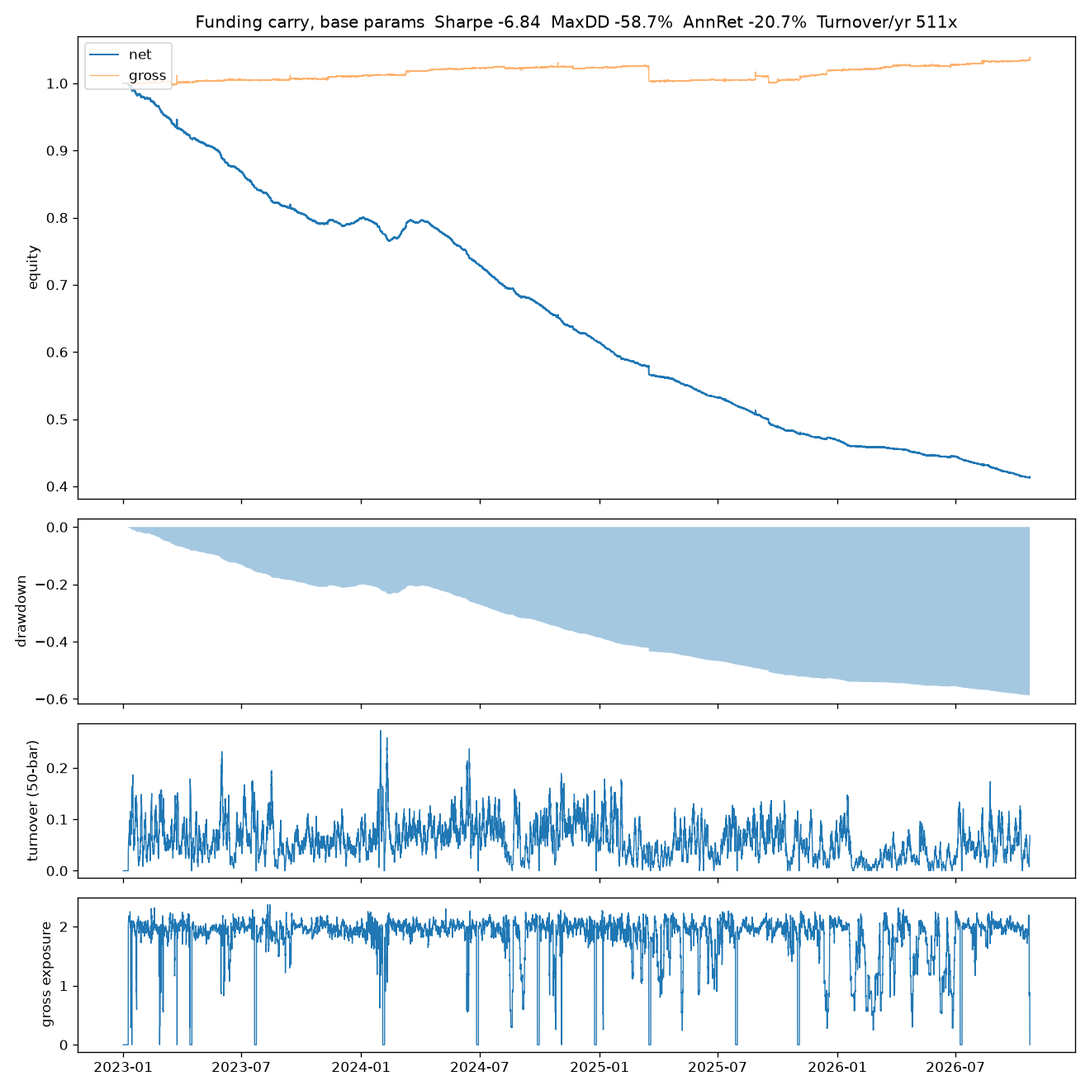
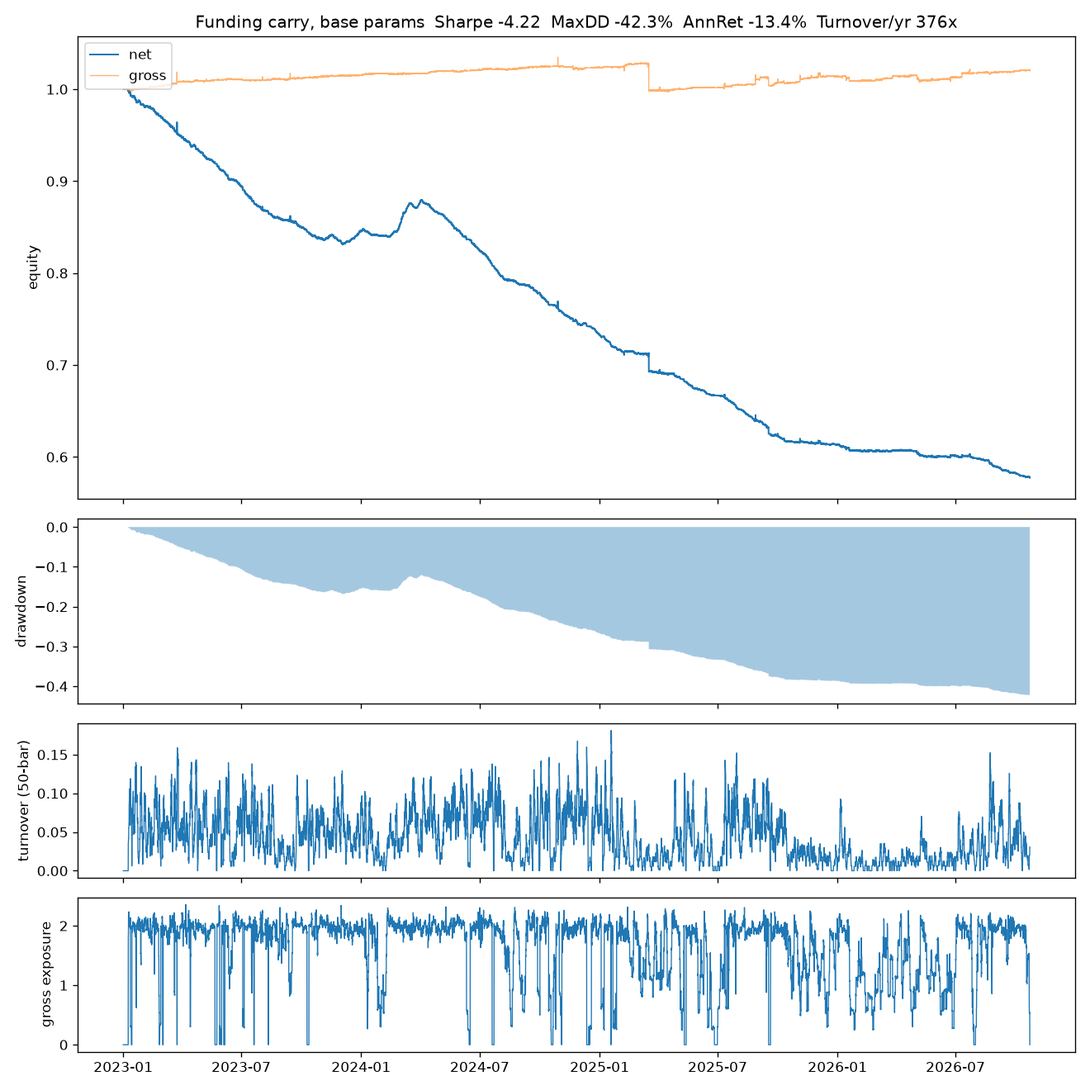
Fix funding timestamp jitter in run_carry; correct the rotation results
run_carry.load read raw fundingTime, which carries millisecond jitter
(08:00:00.008). With 8h windows closed on the right, about a third of
settlements landed in the following window, misaligning the rotation
signal and inflating its turnover. Timestamps are now rounded to the
minute, as load_funding already did, and per_window rounds them itself
(with a regression test).

Rerun: hedged rotation -20.7% -> -13.4%/yr, turnover 511x -> 376x,
6/25 grid cells now positive (best Sharpe 0.49, 19% after deflating
for 25 trials), walk-forward -3.1% -> -0.1%/yr; unhedged -0.03% ->
+23.3%/yr. Studies 1-3 used rounded timestamps and are unchanged.

run_carry also reports the unhedged P&L split by year and a 2x2 control
(signal vs no-signal short, with and without the 8% stop), which shows
the unhedged return comes from the stop: -34.3%/yr without it. The note
carries a dated correction line.

diff --git a/scripts/run_carry.py b/scripts/run_carry.py
@@ -20,7 +20,9 @@ from qr.backtest.engine import run
 from qr.backtest.report import tearsheet
 from qr.data.history import delisting_times
 from qr.data.store import read_range
-from qr.strategies.carry import CarryParams, build_weights, implied_leverage, run_with_risk
+from qr.data.funding import per_window
+from qr.strategies.carry import (CarryParams, build_weights, implied_leverage, point_in_time_universe,
+                                 run_with_risk)
 from qr.validation import deflated_sharpe
 
 OUT = Path("reports/carry")
@@ -44,7 +46,9 @@ def load(bases: list[str], start: str, end: str):
         closes[f"{b}-PERP"] = kp["close"]
         if not ks.empty:                       # perp-only coins stay in: tradeable unhedged, never hedged
             closes[f"{b}-SPOT"] = ks["close"]
-        fund[b] = f["rate"]
+        r = f["rate"].copy()
+        r.index = r.index.round("min")                     # fundingTime carries ms jitter (see load_funding)
+        fund[b] = r[~r.index.duplicated(keep="last")]
         dvol[b] = kp["quote_vol"] if "quote_vol" in kp else kp["close"] * kp["volume"]
     prices = pd.DataFrame(closes).sort_index()
     prices = prices[~prices.index.duplicated()]
@@ -53,6 +57,56 @@ def load(bases: list[str], start: str, end: str):
     dollar_volume = pd.DataFrame(dvol).sort_index()
     dollar_volume = dollar_volume[~dollar_volume.index.duplicated()].reindex(prices.index)
     return prices, funding, dollar_volume
+
+
+def pnl_split(res) -> tuple[pd.DataFrame, dict]:
+    """Per-year price / funding / cost P&L (simple sums of per-bar returns) and compounded net;
+    plus the same three per year over the full sample. price + funding + costs = net, per bar."""
+    df = pd.DataFrame({"price": res.gross_returns, "funding": res.funding_pnl, "costs": -res.costs, "net": res.returns})
+    y = df.groupby(df.index.year)
+    t = y[["price", "funding", "costs"]].sum()
+    t["net_compounded"] = y["net"].apply(lambda r: (1 + r).prod() - 1)
+    yrs = len(df) / res.bars_per_year
+    return t, {k: float(df[k].sum() / yrs) for k in ("price", "funding", "costs")}
+
+
+def no_signal_short(prices, funding, dvol, p: CarryParams, gross: float) -> pd.DataFrame:
+    """Control for the unhedged book: equal-weight short of the same point-in-time top-N universe,
+    no funding signal, re-decided at the same 8h window ends, `gross` total short, delistings exit."""
+    bases = [b for b in funding.columns if f"{b}-PERP" in prices.columns]
+    cols = [f"{b}-PERP" for b in bases]
+    priced = prices[cols].notna().values
+    univ = point_in_time_universe(dvol.reindex(columns=bases).reindex(prices.index), p.universe_n,
+                                  p.volume_window, p.universe_exit_n).fillna(False).values & priced
+    dec = np.zeros(len(prices), dtype=bool)
+    dec[np.unique(np.clip(prices.index.searchsorted(per_window(funding[bases]).index), 0, len(prices) - 1))] = True
+    sel = pd.DataFrame(np.where(dec[:, None], univ, np.nan), index=prices.index).ffill().fillna(0).values.astype(bool) & priced
+    n = sel.sum(axis=1).astype(float); n[n == 0] = np.nan
+    w = pd.DataFrame(0.0, index=prices.index, columns=prices.columns)
+    w[cols] = np.nan_to_num(-sel.astype(float) / n[:, None]) * gross
+    return w
+
+
+def unhedged_controls(prices, funding, dvol, p: CarryParams, res_u) -> pd.DataFrame:
+    """2x2: carry signal vs no-signal short (gross matched to the signal's average when invested),
+    each with and without the kill switch. Separates what the signal, the stop and the market did."""
+    f_perp = funding.rename(columns=lambda b: f"{b}-PERP")
+    kw = dict(fee_bps=4, slippage_bps=3, funding=f_perp, max_gross=p.max_gross, rebalance_band=p.rebalance_band)
+    ws = build_weights(prices, funding, p, dvol)
+    g = ws.abs().sum(axis=1); gross = float(g[g > 0].mean())
+    wn = no_signal_short(prices, funding, dvol, p, gross)
+    runs = {("carry signal", True): res_u, ("carry signal", False): run(prices, ws, **kw),
+            (f"no signal, short all top {p.universe_n} (gross {gross:.2f})", True):
+                run_with_risk(prices, funding, p, dollar_volume=dvol, weights=wn),
+            (f"no signal, short all top {p.universe_n} (gross {gross:.2f})", False): run(prices, wn, **kw)}
+    rows = []
+    for (book, kill), r in runs.items():
+        t, full = pnl_split(r)
+        rows.append({"book": book, "kill_switch": kill, "price_ann": full["price"], "funding_ann": full["funding"],
+                     "costs_ann": full["costs"], "ann_return": r.metrics["ann_return"], "sharpe": r.metrics["sharpe"],
+                     "max_dd": r.metrics["max_drawdown"], "kill_events": r.metrics.get("kill_events", 0),
+                     **{f"net_{y}": v for y, v in t["net_compounded"].items()}})
+    return pd.DataFrame(rows)
 
 
 def stress(res, windows: dict[str, tuple[str, str]]) -> pd.DataFrame:
@@ -113,6 +167,10 @@ def main(a):
               "unhedged_avg_turnover_per_bar": res_u.metrics["avg_turnover_per_bar"],
               "hedged_worst_week": float(wk(res.returns).min()),
               "hedged_worst_week_date": str(wk(res.returns).idxmin().date())})
+    uc = unhedged_controls(prices, funding, dvol, CarryParams(universe_n=a.universe_n, hedged=False), res_u)
+    uc.to_csv(OUT / "unhedged_controls.csv", index=False)
+    split_u, _ = pnl_split(res_u)
+    split_u.to_csv(OUT / "unhedged_split.csv")
 
     # parameter grid: lookback x entry threshold (full sample; this is the in-sample picture)
     grid_lb, grid_entry = [3, 6, 9, 15, 21], [0.05, 0.10, 0.15, 0.20, 0.30]
@@ -133,6 +191,19 @@ def main(a):
     m["psr_vs_zero"] = psr0["psr"]
     m["grid_sharpe_min"] = float(np.nanmin(tbl.values)); m["grid_sharpe_max"] = float(np.nanmax(tbl.values))
     m.update({f"dsr_{k}": v for k, v in dsr.items()})
+    # The best grid cell, chosen after seeing all 25: plain PSR against zero, deflated for 25 trials
+    # with the zero-skill variance (1/T, the honest benchmark here), and against the grid's spread.
+    keys = list(itertools.product(grid_lb, grid_entry))
+    ib = int(np.nanargmax([tbl.loc[k] for k in keys]))
+    best = trials[ib]
+    m["best_cell_lookback"], m["best_cell_entry"] = keys[ib]
+    m["best_cell_sharpe"] = float(tbl.loc[keys[ib]])
+    m["best_cell_psr_vs_zero"] = deflated_sharpe(best, 1, res.bars_per_year, var_trials=0.0)["psr"]
+    d1 = deflated_sharpe(best, len(trials), res.bars_per_year)               # var_trials = 1/T
+    m["best_cell_dsr_sr0_ann"], m["best_cell_dsr_psr"] = d1["sr0_ann"], d1["psr"]
+    m["best_cell_dsr_gridvar_psr"] = deflated_sharpe(best, len(trials), res.bars_per_year,
+                                                     var_trials=float(per_bar_sr.var()))["psr"]
+    m["grid_cells_positive"] = int((tbl.values > 0).sum())
 
     # walk-forward: refit (lookback, entry) on 6 months, trade next 2 months
     bars_train, bars_test = 24 * 182, 24 * 61
@@ -167,11 +238,11 @@ def main(a):
     st.to_csv(OUT / "stress.csv", index=False)
 
     json.dump(m, open(OUT / "metrics.json", "w"), indent=2, default=float)
-    write_note(m, tbl, st, prices, funding, base)
+    write_note(m, tbl, st, prices, funding, base, split_u, uc)
     print(json.dumps(m, indent=2, default=float))
 
 
-def write_note(m, tbl, st, prices, funding, p: CarryParams):
+def write_note(m, tbl, st, prices, funding, p: CarryParams, split_u=None, uc=None):
     pct = lambda x: f"{x:+.1%}" if x == x else "n/a"
     f2 = lambda x: f"{x:.2f}" if x == x else "n/a"
     period = f"{prices.index[0]:%Y-%m-%d} to {prices.index[-1]:%Y-%m-%d}"
@@ -182,6 +253,20 @@ def write_note(m, tbl, st, prices, funding, p: CarryParams):
     st_md = "| Window | Return | Max DD | Worst hour |\n| --- | --- | --- | --- |\n"
     for _, r in st.iterrows():
         st_md += f"| {r['window']} | {pct(r['return'])} | {pct(r['max_dd'])} | {pct(r['worst_bar'])} |\n"
+    uc_md = ""
+    if split_u is not None and uc is not None:
+        yrs = [c for c in uc.columns if c.startswith("net_2")]
+        L = ["Unhedged P&L by year (simple sums of per-bar returns; compounded net):", "",
+             "| Year | Price | Funding | Costs | Net (compounded) |", "| --- | --- | --- | --- | --- |"]
+        L += [f"| {y} | {pct(r.price)} | {pct(r.funding)} | {pct(r.costs)} | {pct(r.net_compounded)} |" for y, r in split_u.iterrows()]
+        L += ["", "Controls: the same signal without the kill switch, and a no-signal equal-weight short of the same universe at matched gross, with and without it:", "",
+              "| Book | Kill switch | Price / yr | Funding / yr | Costs / yr | Net / yr | Sharpe | Max DD | Kill events | " + " | ".join(c[4:] for c in yrs) + " |",
+              "| --- " * (9 + len(yrs)) + "|"]
+        for _, r in uc.iterrows():
+            L.append(f"| {r['book']} | {'8% DD' if r['kill_switch'] else 'none'} | {pct(r['price_ann'])} | {pct(r['funding_ann'])} | "
+                     f"{pct(r['costs_ann'])} | {pct(r['ann_return'])} | {f2(r['sharpe'])} | {pct(r['max_dd'])} | {r['kill_events']} | "
+                     + " | ".join(pct(r[c]) for c in yrs) + " |")
+        uc_md = "\n".join(L)
     note = f"""# Funding-rate carry on Binance perps
 
 **One line:** delta-neutral long-spot / short-perp across the top {m['universe_n']} Binance USDT perps by trailing volume (point in time, from {m['assets_with_data']} listed contracts), held when trailing funding annualises above {p.entry_apr:.0%}; {pct(m['ann_return'])} a year net of fees, slippage and funding, Sharpe {f2(m['sharpe'])}, max drawdown {pct(m['max_drawdown'])}, {period}.
@@ -234,10 +319,12 @@ Hedged vs unhedged, same signal and risk layer:
 
 The unhedged book can also trade the {m['n_perp_only']} contracts that never had a Binance spot market (mostly 2024-25 meme and launch tokens), which is where much of the real "funding carry" PnL of that period came from, and where the squeezes were.
 
+{uc_md}
+
 ![unhedged](../reports/carry/tearsheet_unhedged.png)
 
 ## Validation
-{len(tbl.values.ravel())} parameter combinations were tried. Grid Sharpe ranges {f2(m['grid_sharpe_min'])} to {f2(m['grid_sharpe_max'])}. Probability the base-case Sharpe is above zero: {m['psr_vs_zero']:.0%}. Deflated Sharpe against the grid's spread: benchmark {f2(m['dsr_sr0_ann'])}, probability {m['dsr_psr']:.0%}; the trials differ mainly in how much they trade, not in sampling noise, so this benchmark is reported for completeness and not relied on. Walk-forward, refitting lookback and threshold on six months and trading the next two ({m.get('wf_untradeable_folds', 0)} folds where no parameter set traded in-sample, run on base parameters): out-of-sample Sharpe {f2(m.get('wf_sharpe', float('nan')))}, annualised return {pct(m.get('wf_ann_return', float('nan')))}, max drawdown {pct(m.get('wf_max_dd', float('nan')))} over {m.get('wf_bars', 0)} hours.
+{len(tbl.values.ravel())} parameter combinations were tried. Grid Sharpe ranges {f2(m['grid_sharpe_min'])} to {f2(m['grid_sharpe_max'])}. Probability the base-case Sharpe is above zero: {m['psr_vs_zero']:.0%}. Deflated Sharpe against the grid's spread: benchmark {f2(m['dsr_sr0_ann'])}, probability {m['dsr_psr']:.0%}; the trials differ mainly in how much they trade, not in sampling noise, so this benchmark is reported for completeness and not relied on. {m['grid_cells_positive']} of {len(tbl.values.ravel())} cells have a positive Sharpe; the best (lookback {m['best_cell_lookback']}, entry {m['best_cell_entry']:.0%}) has Sharpe {f2(m['best_cell_sharpe'])}, probability above zero {m['best_cell_psr_vs_zero']:.0%} taken alone, and {m['best_cell_dsr_psr']:.0%} after deflating for {len(tbl.values.ravel())} trials (zero-skill benchmark Sharpe {f2(m['best_cell_dsr_sr0_ann'])}). Walk-forward, refitting lookback and threshold on six months and trading the next two ({m.get('wf_untradeable_folds', 0)} folds where no parameter set traded in-sample, run on base parameters): out-of-sample Sharpe {f2(m.get('wf_sharpe', float('nan')))}, annualised return {pct(m.get('wf_ann_return', float('nan')))}, max drawdown {pct(m.get('wf_max_dd', float('nan')))} over {m.get('wf_bars', 0)} hours.
 
 ## What broke
 - Funding income arrives in discrete 8h lumps while the spot/perp basis moves continuously; most of the drawdown is basis, not funding turning negative. The hedge is not free in a squeeze.

diff --git a/qr/strategies/carry.py b/qr/strategies/carry.py
@@ -171,13 +171,14 @@ def kill_mask(returns: pd.Series, p: CarryParams, active: np.ndarray | None = No
 
 def run_with_risk(prices: pd.DataFrame, funding_rates: pd.DataFrame, p: CarryParams,
                   fee_bps: float = 4.0, slippage_bps: float = 3.0, max_iter: int = 8,
-                  dollar_volume: pd.DataFrame | None = None):
+                  dollar_volume: pd.DataFrame | None = None, weights: pd.DataFrame | None = None):
     """Full pipeline: weights -> engine -> kill-switch -> engine, until the flat mask stops growing.
-    funding_rates columns = base symbols; mapped onto the perp columns for the engine."""
+    funding_rates columns = base symbols; mapped onto the perp columns for the engine.
+    `weights`: precomputed target weights (e.g. capacity-capped); default = build_weights."""
     from qr.backtest.engine import run
 
     f_perp = funding_rates.rename(columns={b: f"{b}-PERP" for b in funding_rates.columns})
-    w = build_weights(prices, funding_rates, p, dollar_volume)
+    w = build_weights(prices, funding_rates, p, dollar_volume) if weights is None else weights
     kw = dict(fee_bps=fee_bps, slippage_bps=slippage_bps, funding=f_perp, max_gross=p.max_gross,
               rebalance_band=p.rebalance_band)
     res = run(prices, w, **kw)

diff --git a/qr/data/funding.py b/qr/data/funding.py
@@ -55,7 +55,10 @@ def load_funding(bases: list[str], start: str, end: str, cache: bool = True) -> 
 
 def per_window(raw: pd.DataFrame) -> pd.DataFrame:
     """Funding paid per fixed 8h window, summed over the settlements inside it. NaN where the
-    coin had no settlement in the window (before listing, after delisting)."""
+    coin had no settlement in the window (before listing, after delisting).
+    Timestamps are rounded to the minute first: Binance's fundingTime carries ms jitter, and with
+    closed='right' an 08:00:00.008 settlement would fall into the window ending 16:00."""
+    raw = raw.copy(); raw.index = raw.index.round("min")
     g = raw.resample(WINDOW, label="right", closed="right")
     out = g.sum(min_count=1)
     return out

diff --git a/tests/test_funding.py b/tests/test_funding.py
@@ -35,3 +35,12 @@ def test_interval_hours():
     assert set(iv["A"].dropna().unique()) == {8.0}
     assert set(iv["B"].dropna().unique()) == {4.0}
     assert {4.0, 1.0} <= set(iv["C"].dropna().unique())
+
+
+def test_per_window_ignores_ms_jitter():
+    # Binance stamps settlements like 08:00:00.008; with closed='right' that must stay in the
+    # window ending 08:00, not slip into the one ending 16:00.
+    idx = pd.to_datetime(["2024-01-01 00:00:00", "2024-01-01 08:00:00.008", "2024-01-01 16:00:00.005"], utc=True, format="ISO8601")
+    f8 = per_window(pd.DataFrame({"A": [1.0, 2.0, 3.0]}, index=idx))["A"]
+    assert f8[pd.Timestamp("2024-01-01 08:00", tz="UTC")] == 2.0
+    assert f8[pd.Timestamp("2024-01-01 16:00", tz="UTC")] == 3.0

diff --git a/notes/01_carry.md b/notes/01_carry.md
@@ -10,14 +10,14 @@ When leveraged longs crowd a perp, it trades above spot and longs pay shorts fun
 Binance's funding has a floor-like default: an interest component of 0.01% per 8h (≈10.95% APR) that the rate sits at whenever the perp premium is small. So there are two distinct trades: collecting spikes **above** the default, and simply holding coins **at** the default.
 
 ## Data
-- Binance USDT-M perps and Binance spot, hourly closes; funding from the fapi funding endpoint. 2023-01-01 to 2026-10-21.
+- Binance USDT-M perps and Binance spot, hourly closes; funding from the fapi funding endpoint. Funding 2023-01-01 to 2026-10-21, hourly prices to 2026-10-23.
 - Universe: every USDT perp Binance has listed (655, including 133 delisted). 447 have a spot market and so can be hedged; 89 of those are delisted contracts (FTT, FTM, WAVES, MKR, OCEAN, AGIX, …), so the sample includes the casualties. Perp-only coins are excluded from every hedged study.
 - Settlement intervals differ: at the end of the sample 509 coins settle every 4h, 134 every 8h, 12 every 1–2h, and 169 dropped to 1h at some point (Binance does this when funding is at its cap). All funding is put on fixed 8h UTC windows by summing the settlements inside each window (`qr/data/funding.py`); the default is 0.01% per 8h window at every interval (0.005% per 4h settlement, 0.00125% per 1h).
 - Liquidity is point in time: trailing 30-day perp dollar volume on completed bars only.
 - Binance keeps serving perp klines after a contract is delisted, with a frozen close. Perp prices are cut at each contract's delisting time (Binance's `deliveryDate`, 134 contracts), so a delisting force-closes the position in the backtester instead of leaving a frozen perp hedged against live spot.
 
 ## Method
-Three studies, each answering one question:
+Three studies, each answering one question, plus a rotation backtest (`scripts/run_carry.py`, results 1 and 1b), listed under Reproduce:
 
 1. **Persistence** (`scripts/funding_persistence.py`): a *spell* is a run of consecutive 8h windows with funding strictly above the default. Trade per spell: enter at the end of the first window above default (when it is known), earn from the next window, exit at the end of the first window back at or below default. Compared with a 28 bps round trip (4 legs × (4 bps fee + 3 bps slippage)). Funding only; basis PnL excluded.
 2. **Default-rate carry** (`scripts/default_carry.py`): at each month start, the top 20 hedgeable coins by trailing volume, equal weight, +1/20 spot and −1/20 perp (2.0× gross), held through the month (drift not traded; delistings exit both legs). Full engine accounting: price and basis PnL, funding, 7 bps per leg. Funding is attributed to settlements at, above and below their interval's default.
@@ -47,9 +47,34 @@ The rule *enter above 50% APR, hold until back at default* was chosen from this 
 
 Spells also became rarer. The share of listed coin-windows above default fell about 20× for both settlement intervals (8h coins 13.9% → 0.7%, 4h coins 25.2% → 1.4%), while the number of listed hedgeable coins rose from 218 to 365. My first explanation, that 4h settlement shortened spells, is rejected: within each period 4h coins have slightly *longer* spells than 8h coins (2025–26 mean 2.5 vs 2.0 windows), and 8h coins, which never changed interval, collapsed just as much.
 
-The rotation backtest shows the same thing in PnL. Book: top 10 by trailing 9-window funding among the top 40 by trailing volume, entry above 10% APR and exit below 3%, decisions at 8h window ends, 25% no-trade band, 8% drawdown kill switch, 2.0× gross, 7 bps per leg. It collected **+11.7% a year in funding and paid −35.8% a year in costs**: net −20.7% a year, Sharpe −6.8, max drawdown −58.7%, turnover 511× a year, almost all of it from selection changes (0.061 per bar from target changes against 0.058 total). All 25 parameter combinations are negative (Sharpe −18.2 to −0.3), and walk-forward out of sample returns −3.1% a year. The unhedged version (short perp only, perp-only coins allowed) roughly breaks even (−0.03% a year) with a −78% max drawdown and a −20% worst week (week ending 2025-10-12).
+> *Corrected 2026-10-23.* An earlier version of this paragraph read raw Binance funding timestamps, which carry millisecond jitter (08:00:00.008). About a third of settlements fell into the following 8h window, which misaligned the rotation signal by one window for those settlements and made it trade more than it should. With timestamps rounded to the minute, the rotation result moved from −20.7% to −13.4% a year and the unhedged result from −0.03% to +23.3% (section 1b). Studies 1–3 already used rounded timestamps and are unchanged.
+
+The rotation backtest shows the same thing in PnL. Book: top 10 by trailing 9-window funding among the top 40 by trailing volume, entry above 10% APR and exit below 3%, decisions at 8h window ends, 25% no-trade band, 8% drawdown kill switch, 2.0× gross, 7 bps per leg. It collected **+11.4% a year in funding and paid −26.3% a year in costs**: net −13.4% a year, Sharpe −4.2, max drawdown −42.3%, turnover 376× a year, almost all of it from selection changes (0.044 per bar from target changes against 0.043 traded; the no-trade band absorbs the difference). Six of the 25 parameter combinations have a positive Sharpe, all in the slowest-trading corner of the grid (entry 15–30% APR, lookback 9–21 windows); the best is 0.49, with a 79% probability of being above zero taken alone and 19% after deflating for 25 trials. Walk-forward out of sample returns −0.1% a year (Sharpe −0.03). The cells that stop losing are the ones that trade least, and once the rule trades that little nothing is left over: the loss is in the trading rule, and the signal is worth about zero after costs.
 
 ![rotation carry](../reports/carry/tearsheet.png)
+
+### 1b. The unhedged book's return is its stop, not its carry
+The same signal as a short-perp-only book (perp-only coins allowed) returns +23.3% a year, Sharpe 0.65, with a −77% max drawdown and a −19% worst week (week ending 2025-10-12). Four runs separate the signal from the 8% drawdown stop. The control is an equal-weight short of the same point-in-time top-40 universe with no funding signal, at the same average gross (0.95), decision clock and costs:
+
+| Book | Stop | Price / yr | Funding / yr | Costs / yr | Net / yr | Max DD | Stop events |
+| --- | --- | --- | --- | --- | --- | --- | --- |
+| Carry signal | 8% DD | +51.3% | +10.5% | −14.6% | **+23.3%** | −77% | 177 |
+| Carry signal | none | +4.2% | +20.6% | −14.3% | **−34.3%** | −94% | 0 |
+| No signal, short top 40 | 8% DD | +49.5% | −12.6% | −5.4% | **+15.0%** | −57% | 127 |
+| No signal, short top 40 | none | +13.3% | −16.2% | −1.4% | **−26.6%** | −84% | 0 |
+
+(Price, funding and costs are simple annual sums; net is compounded.)
+
+Removing the stop turns +23% into −34%, and the plain short of the same universe does nearly as well with the stop (+15%) and also loses without it (−27%). The signal is worth about +8 points a year with the stop and −8 without it, which is indistinguishable from zero. On a book with about 72% annual volatility an 8% stop fired 177 times and behaved like a trend filter, flat after each squeeze and back in after the 72-hour cooldown; the full-sample number records when it happened to fire, and it is not stable (the no-signal short with the stop returns +16% at gross 1.0 and −7% at 0.55). The stop also reverses the carry: flat about 40% of the time, the book collects half the funding while every stop and re-entry is a full round trip, so funding (+10.5%) no longer covers costs (−14.6%).
+
+| Year | Price | Funding | Costs | Net (compounded) |
+| --- | --- | --- | --- | --- |
+| 2023 | −9.8% | +8.6% | −15.5% | −29.3% |
+| 2024 | −13.7% | +10.4% | −16.6% | −37.1% |
+| 2025 | +140.8% | +7.8% | −13.5% | +178.8% |
+| 2026 (to Oct) | +78.1% | +13.0% | −10.2% | +79.2% |
+
+On 1 January 2025 the book was down about 55% from its start. The two years that pay come after the two that would have shut it down.
 
 ### 2. Holding liquid coins at the default does not pay either
 
@@ -90,7 +115,9 @@ The same table is also consistent with **hedging that is not carry**: holders of
 - **Survivorship:** the universe is every listed contract, including 89 hedgeable delisted coins; liquidity is ranked point in time. An earlier version that used today's top 40 by volume was discarded for selecting on survival.
 - **Unit check:** default per settlement verified per interval (0.01% at 8h, 0.005% at 4h, 0.00125% at 1h) before attributing funding; funding attribution sums exactly to the engine's funding PnL.
 - **Robustness:** the volume-bucket ordering is unchanged when coins that passed briefly through a bucket are dropped; bootstrap CIs resample coins, the independent unit.
-- **Not done:** no deflated Sharpe, because there is no positive strategy to deflate; the persistence study is funding only (no basis PnL); 7 bps per leg is optimistic for small-cap spot.
+- **Multiple testing:** 6 of the 25 rotation cells are positive. The best (lookback 21, entry 20% APR, Sharpe 0.49) has a 79% probability of a Sharpe above zero taken alone and 19% after deflating for 25 trials against a zero-skill benchmark (the best of 25 skill-less strategies would be expected to show a Sharpe of about 1.0).
+- **Controls:** the unhedged result was checked against the same book without its stop and against a no-signal short of the same universe at matched gross (section 1b).
+- **Not done:** the persistence study is funding only (no basis PnL); 7 bps per leg is optimistic for small-cap spot.
 
 ## What broke
 - **Rotation spends the carry on turnover.** Re-ranking every 8h swaps about one position every one to two settlements; each swap costs ~28 bps against a fraction of a basis point of extra carry per window, and the break-even (~51 days for a 2% APR gap) is longer than almost every spell.
@@ -98,6 +125,8 @@ The same table is also consistent with **hedging that is not carry**: holders of
 - **The default is not free.** Holding liquid coins at the default earns ~4% a year from default settlements and gives back ~11% to below-default ones.
 - **The opportunity shrank.** Above-default funding became ~20× rarer in 2025–26 across all settlement intervals, and below-default funding rose most in the coins with the most capacity.
 - **My first explanation was wrong.** 4h settlement does not explain shorter spells; the collapse is market-wide.
+- **A timestamp bug inflated the rotation's losses.** The rotation script read raw funding times, which carry millisecond jitter; with 8h windows closed on the right, a 08:00:00.008 settlement landed in the window ending 16:00. About a third of settlements were misaligned, the signal churned, and turnover was 511× a year instead of 376×. It was found when the capacity study, which loaded funding through the rounded loader, could not reproduce the note's baseline; the two loaders now agree to four decimals and `per_window` rounds timestamps itself.
+- **The unhedged book's risk layer was its strategy.** An 8% drawdown stop built for a hedged book fired 177 times on a 72%-vol short book and produced the whole of its +23%; without the stop the same book loses 34% a year.
 
 - **Why nobody takes the other side.** Collecting below-default funding means long perp and **short spot**, and shorting spot means borrowing the coin on margin; the borrow rate, its limited and recallable supply, and the small size of the shortfall below default (a few bps per window on majors) mean the reverse trade does not pay either, so the imbalance persists. Borrow costs were not measured here; that is the next thing to check before calling it closed.
 
@@ -106,10 +135,11 @@ The same table is also consistent with **hedging that is not carry**: holders of
 ## Reproduce
 ```bash
 python -m venv .venv && source .venv/bin/activate
-pip install -e ".[dev]" && pytest                  # 32 tests
+pip install -e ".[dev]" && pytest                  # 38 tests
 bash scripts/fetch_carry_data.sh 2023-01-01        # universe + funding + hourly perp/spot (~1–2 h)
 # the first study run builds the funding and price matrices in data/processed/ (~15 min, once)
 python scripts/funding_persistence.py              # study 1
 python scripts/default_carry.py --n 20             # study 2 -> reports/default_carry/
 python scripts/funding_by_volume.py --min-windows 30   # study 3
+python scripts/run_carry.py --end 2026-10-23       # rotation, grid, walk-forward, unhedged 2x2 (~40 min)
 ```
